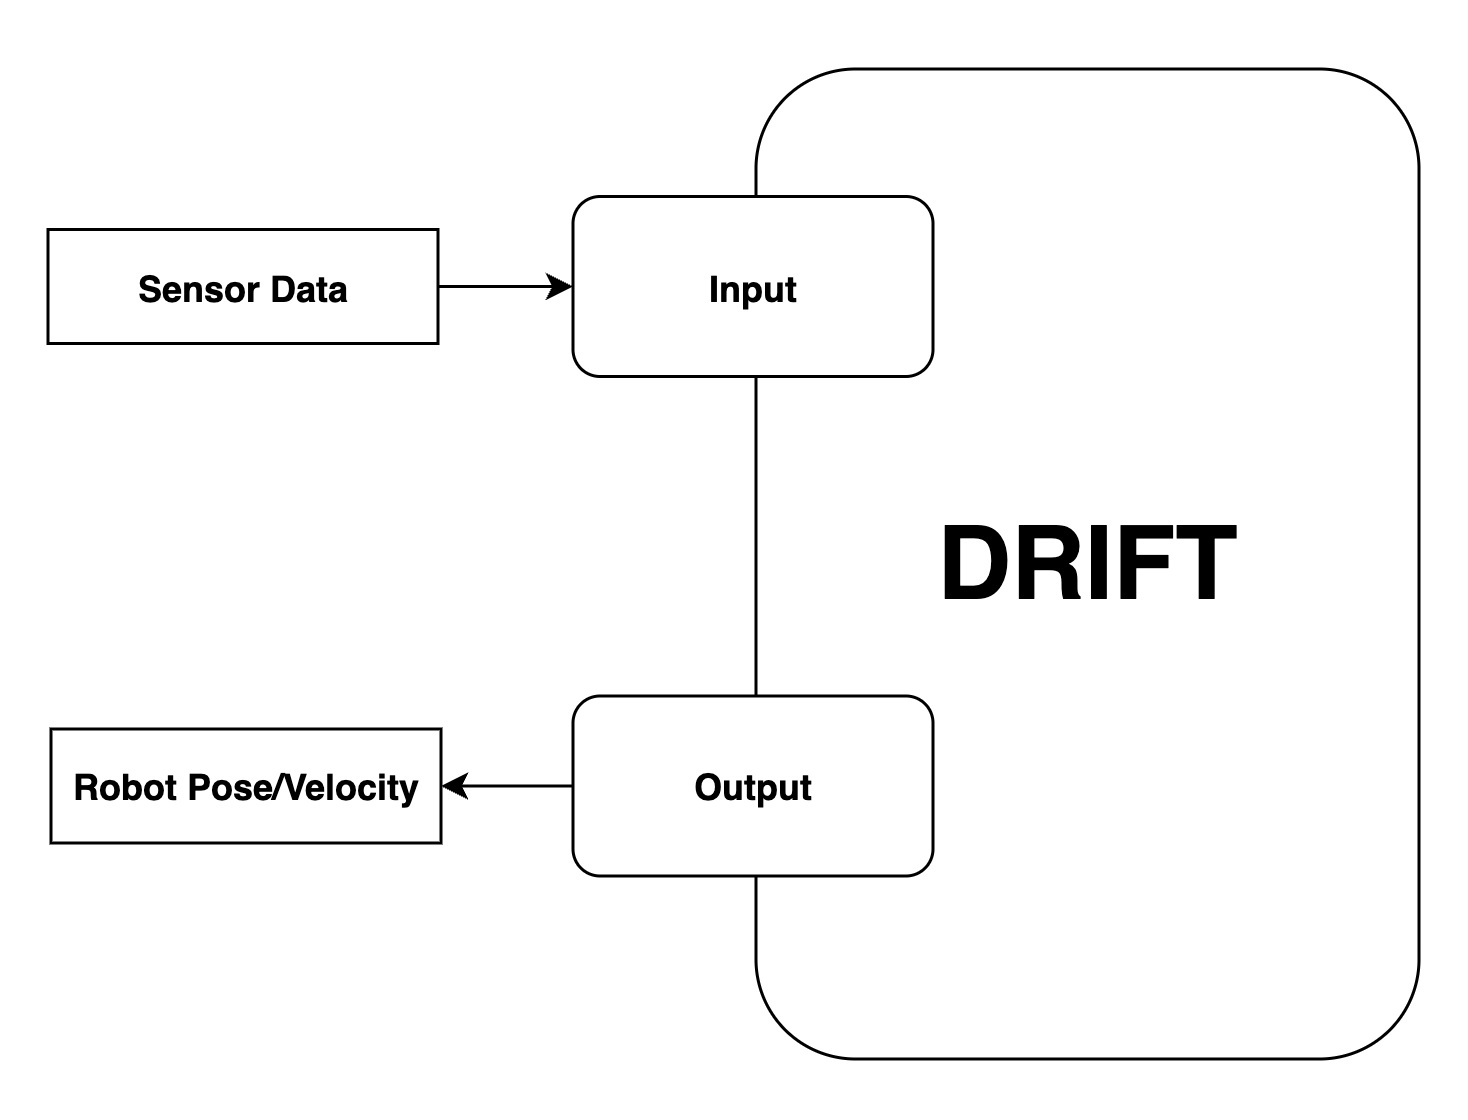
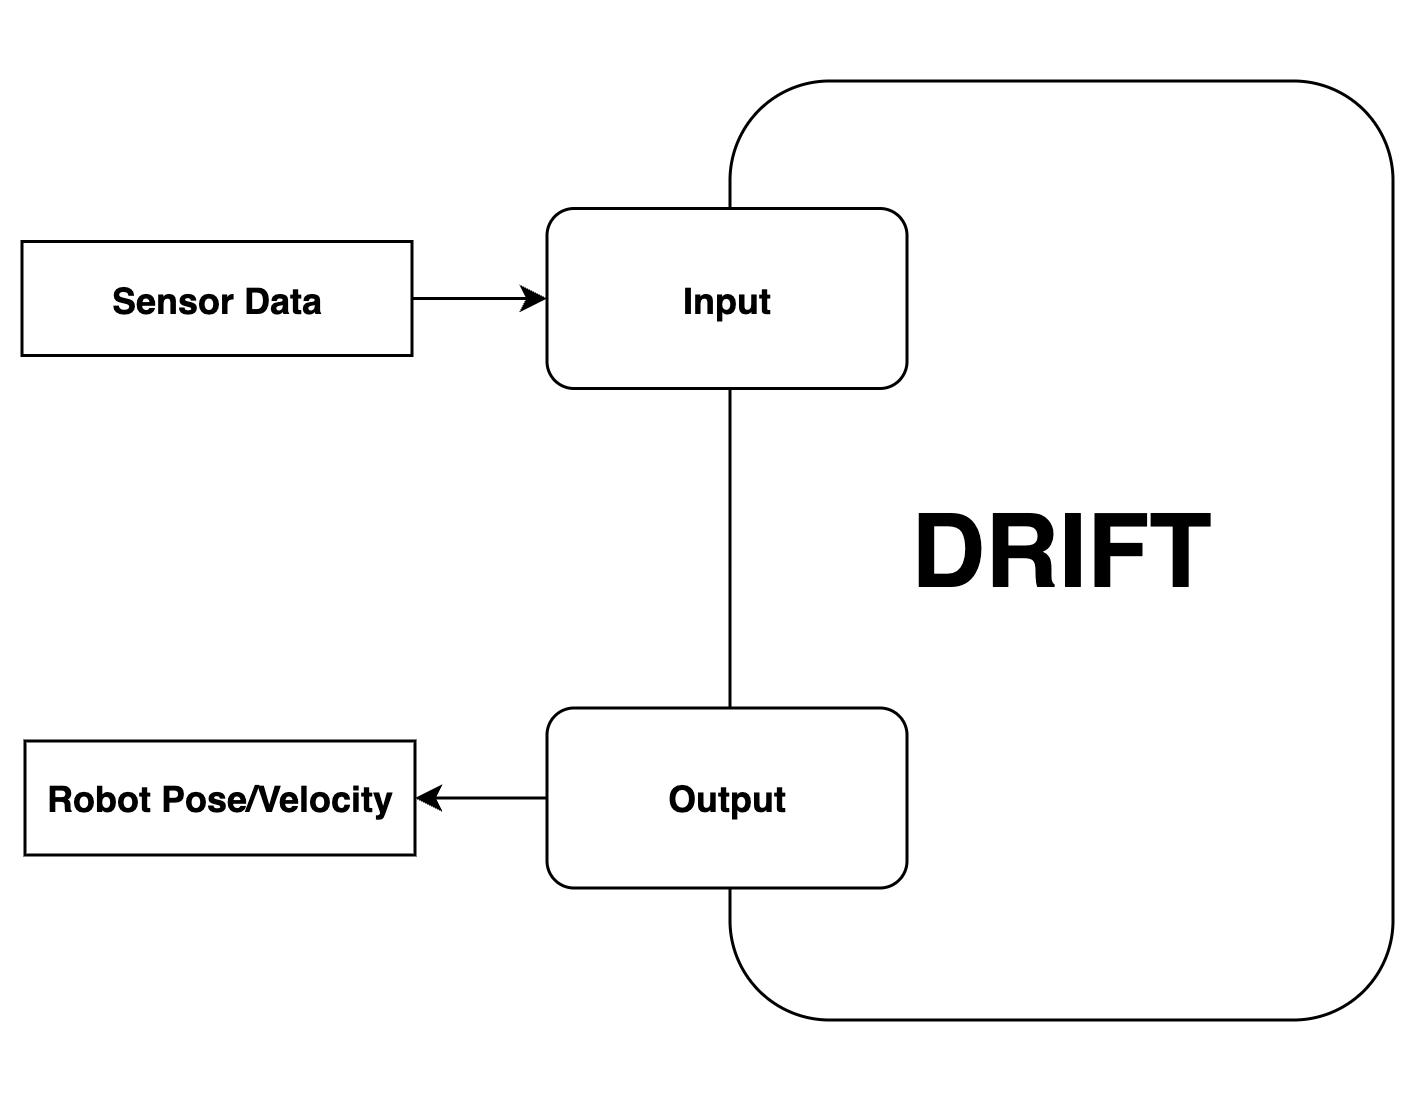
resize diagram

diff --git a/_pages/home.md b/_pages/home.md
@@ -27,7 +27,7 @@ redirect_from: /sitemap/
             <p class="small">
 Dead Reckoning for Robotics In Field Time (DRIFT) is an open-source C++ software library designed to provide accurate and reliable state estimation for a variety of grounded mobile robot architectures, including legged and wheeled platforms. Leveraging invariant extended Kalman filtering (inEKF), this modular library empowers roboticists and engineers with a robust and adaptable tool to estimate instantenous local pose and velocity in diverse environments. DRIFT aims to make real-time robot localization easy and accessible, promoting seamless integration across numerous platforms. DRIFT is available with Lightweight Communications and Marshalling (LCM), ROS, and ROS 2 interfaces. Alternatively, library headers are available for linking to support a custom communcation wrapper.
             </p>
-            <div align="center"><img src="./images/hi-lvl-flow.png" alt="HighLevelFlow"></div>
+            <div align="center"><img src="./images/hi-lvl-flow.png" alt="HighLevelFlow" style="max-width:60%;height:auto"></div>
         </div>
     </div>
 </div>
